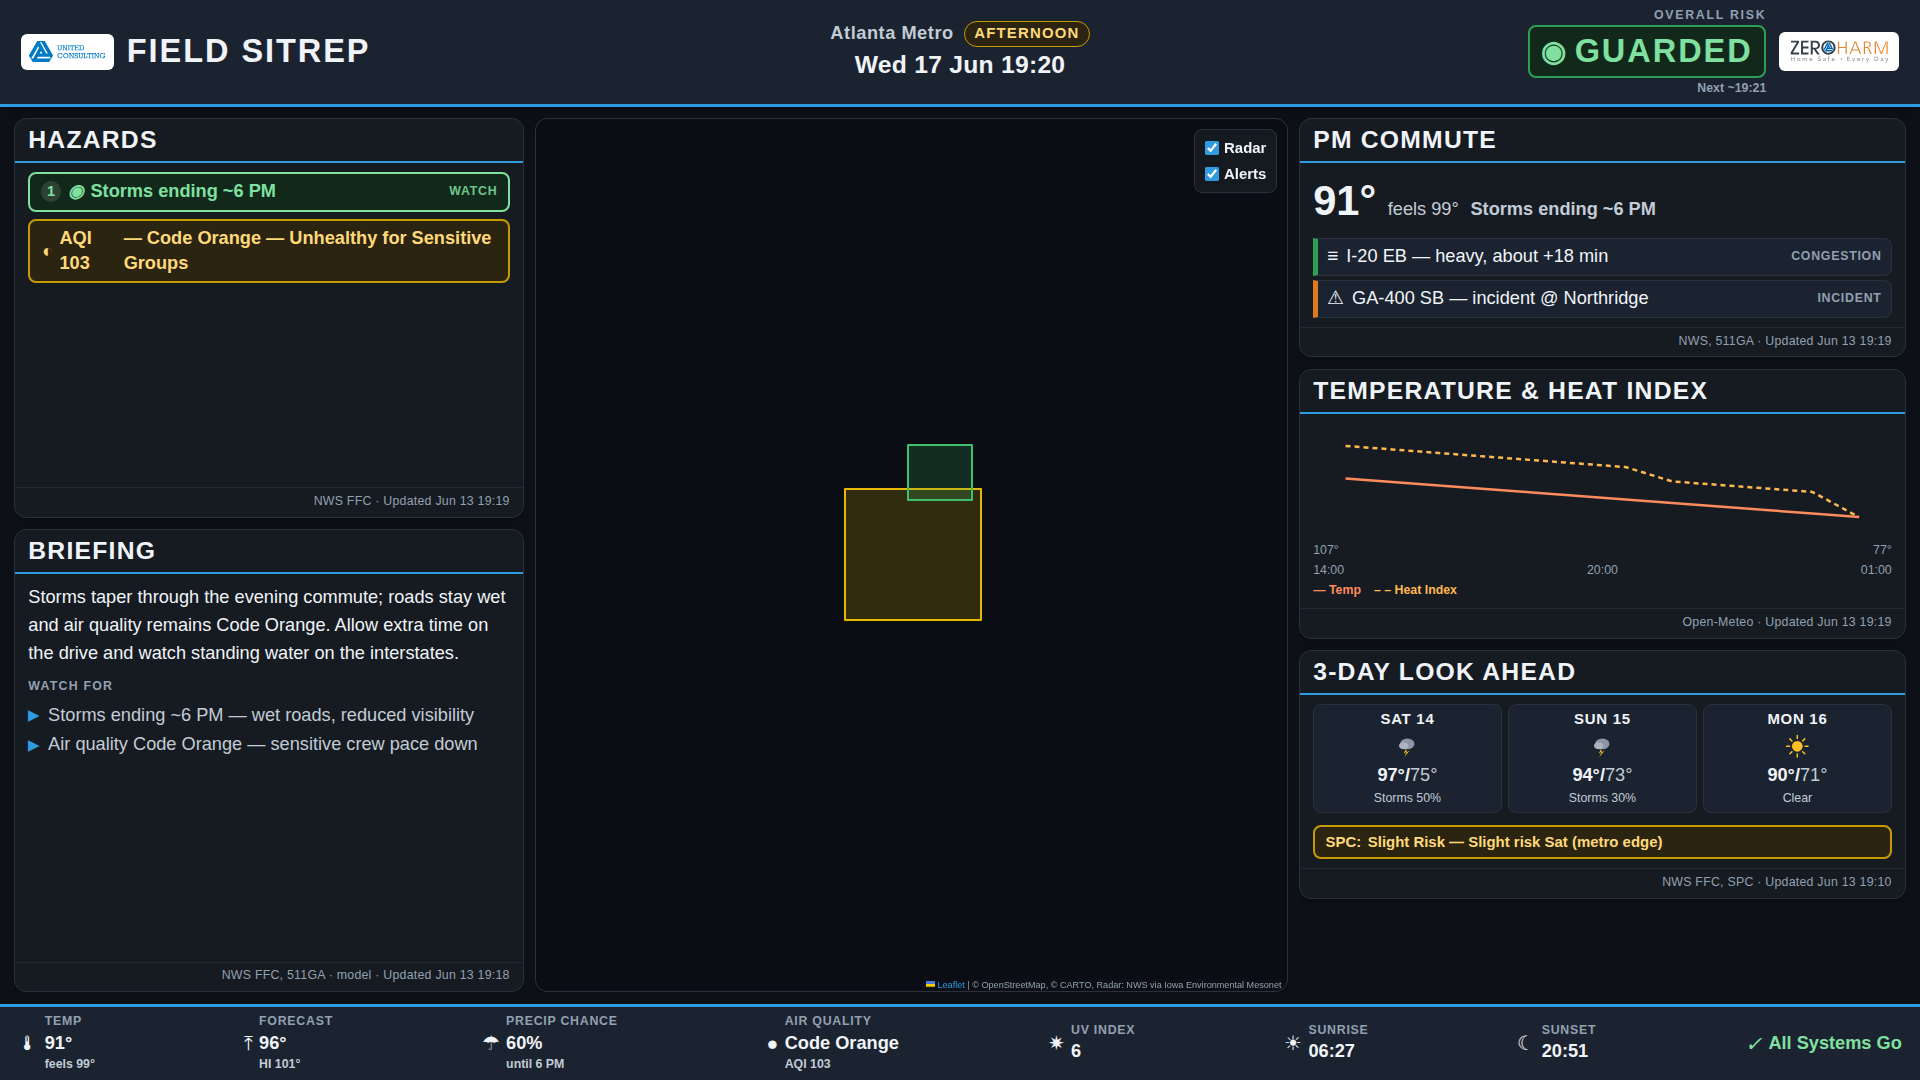
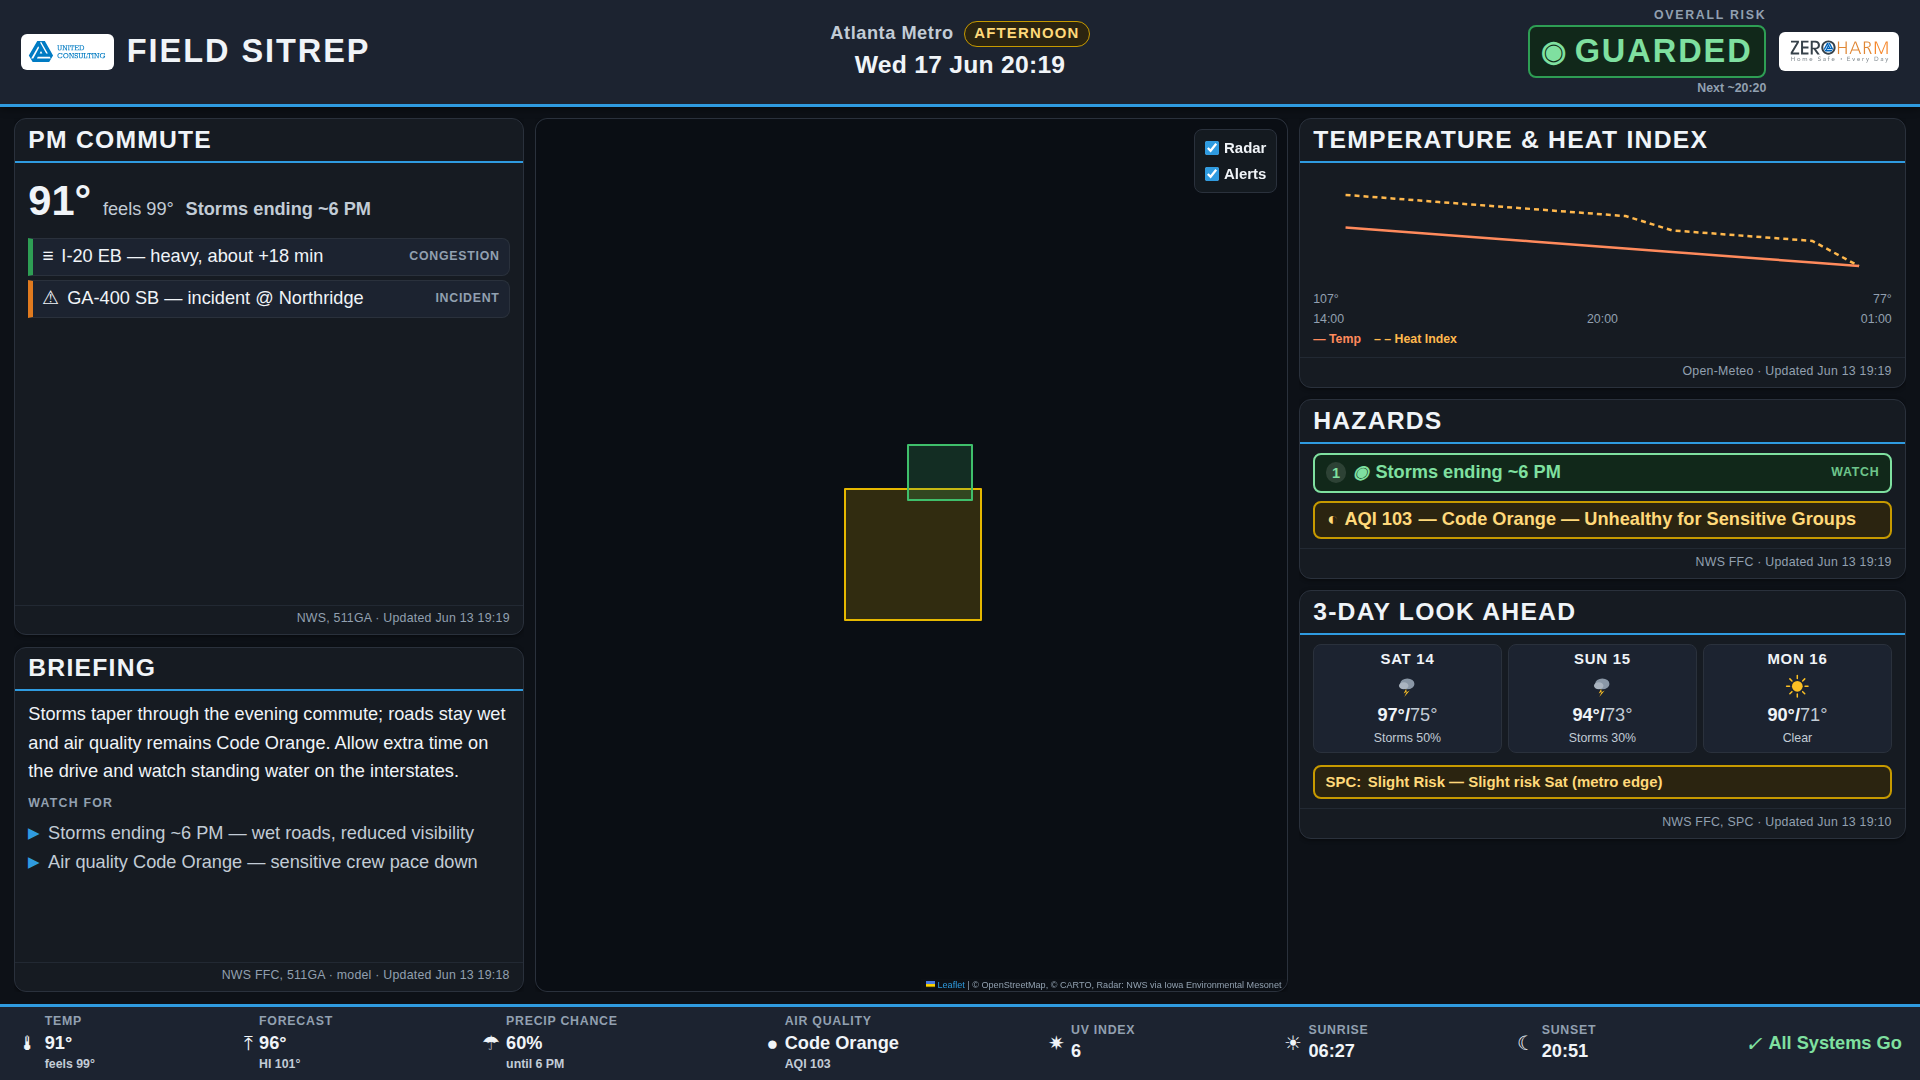
Swap Hazards/PM-Commute by mode; give afternoon traffic more room
- Afternoon now swaps the Hazards and activity cards across columns: PM Commute
  leads the left column and Hazards moves to the right (morning keeps Hazards
  left, Disruptions right). Cross-column placement is done by a small JS layout
  step since CSS can't reparent across flex containers.
- Afternoon left column splits 60% PM Commute / 40% Briefing so traffic has room.
- Refresh demo screenshots.

Claude-Session: https://claude.ai/code/session_01Y9rQ1Ty2sLiduRjRvFBWt4

diff --git a/frontend/app.js b/frontend/app.js
@@ -305,6 +305,33 @@ function renderHeader(state) {
   $modeBadge.textContent = mode === 'afternoon' ? 'Afternoon' : 'Morning';
   $app.classList.toggle('mode-morning', mode !== 'afternoon');
   $app.classList.toggle('mode-afternoon', mode === 'afternoon');
+  applyModeLayout(mode);
+}
+
+/**
+ * Place the Hazards and activity (Disruptions/PM Commute) cards into columns by
+ * mode. Morning: Hazards leads the left column, Disruptions sits in the right.
+ * Afternoon: they switch — PM Commute leads the left column (with more room for
+ * traffic, 60/40 vs. Briefing via CSS), Hazards moves to the right.
+ * Reparenting moves the existing nodes; the map and other cards are untouched.
+ */
+function applyModeLayout(mode) {
+  const left = document.querySelector('.dash-col-left');
+  const right = document.querySelector('.dash-col-right');
+  if (!left || !right) return;
+  if (mode === 'afternoon') {
+    left.appendChild($activity);
+    left.appendChild($summary);
+    right.appendChild($chartTemp);
+    right.appendChild($hazards);
+    right.appendChild($forecast);
+  } else {
+    left.appendChild($hazards);
+    left.appendChild($summary);
+    right.appendChild($chartTemp);
+    right.appendChild($activity);
+    right.appendChild($forecast);
+  }
 }
 
 function renderOverallRisk(state) {

diff --git a/frontend/styles.css b/frontend/styles.css
@@ -174,8 +174,10 @@ html, body {
 }
 .dash-col { display: flex; flex-direction: column; gap: 0.9rem; min-height: 0; overflow: hidden; }
 .dash-col-center { overflow: hidden; }
-/* Afternoon: promote the PM-commute card to the top of the left column */
-.mode-afternoon #card-activity { order: -1; }
+/* Afternoon: the left column is PM Commute (60%) over Briefing (40%) so traffic
+   gets the room. (flex-basis 0 + grow ratio splits the column height.) */
+.mode-afternoon .dash-col-left > #card-activity { flex: 3 1 0; }
+.mode-afternoon .dash-col-left > #card-summary  { flex: 2 1 0; }
 
 /* ── Cards ──────────────────────────────────────────────────────────── */
 .card {